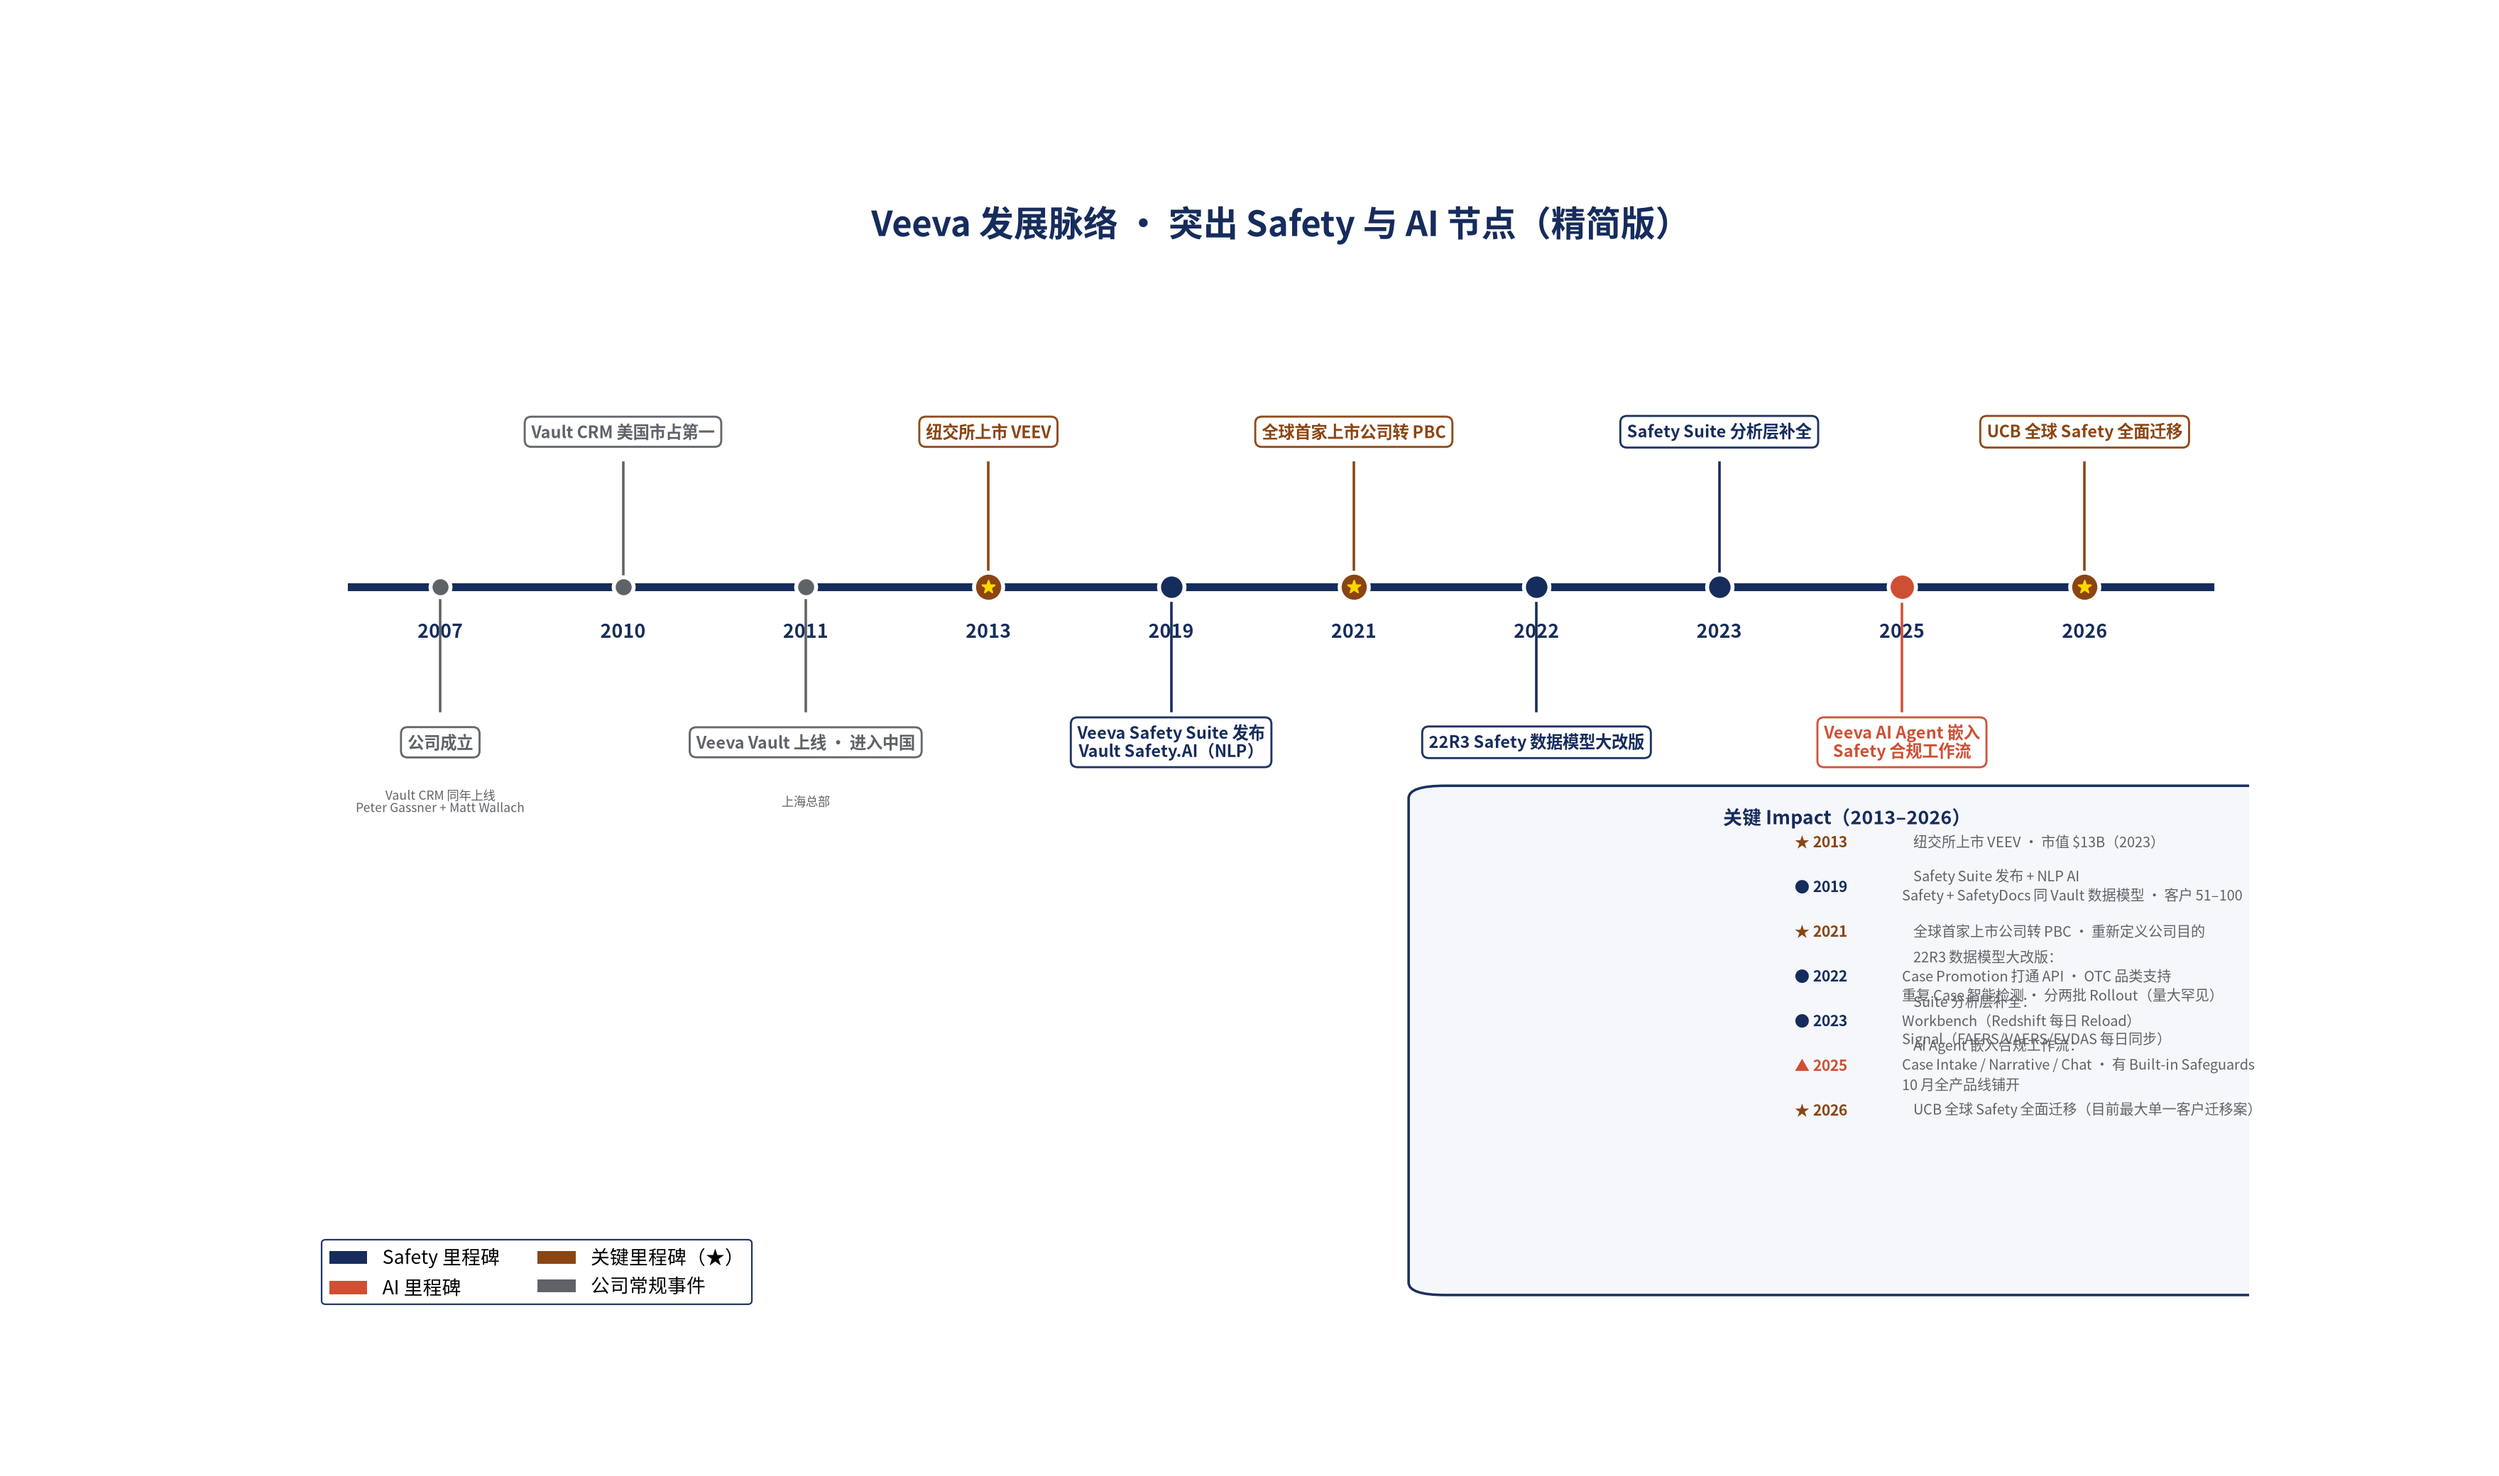
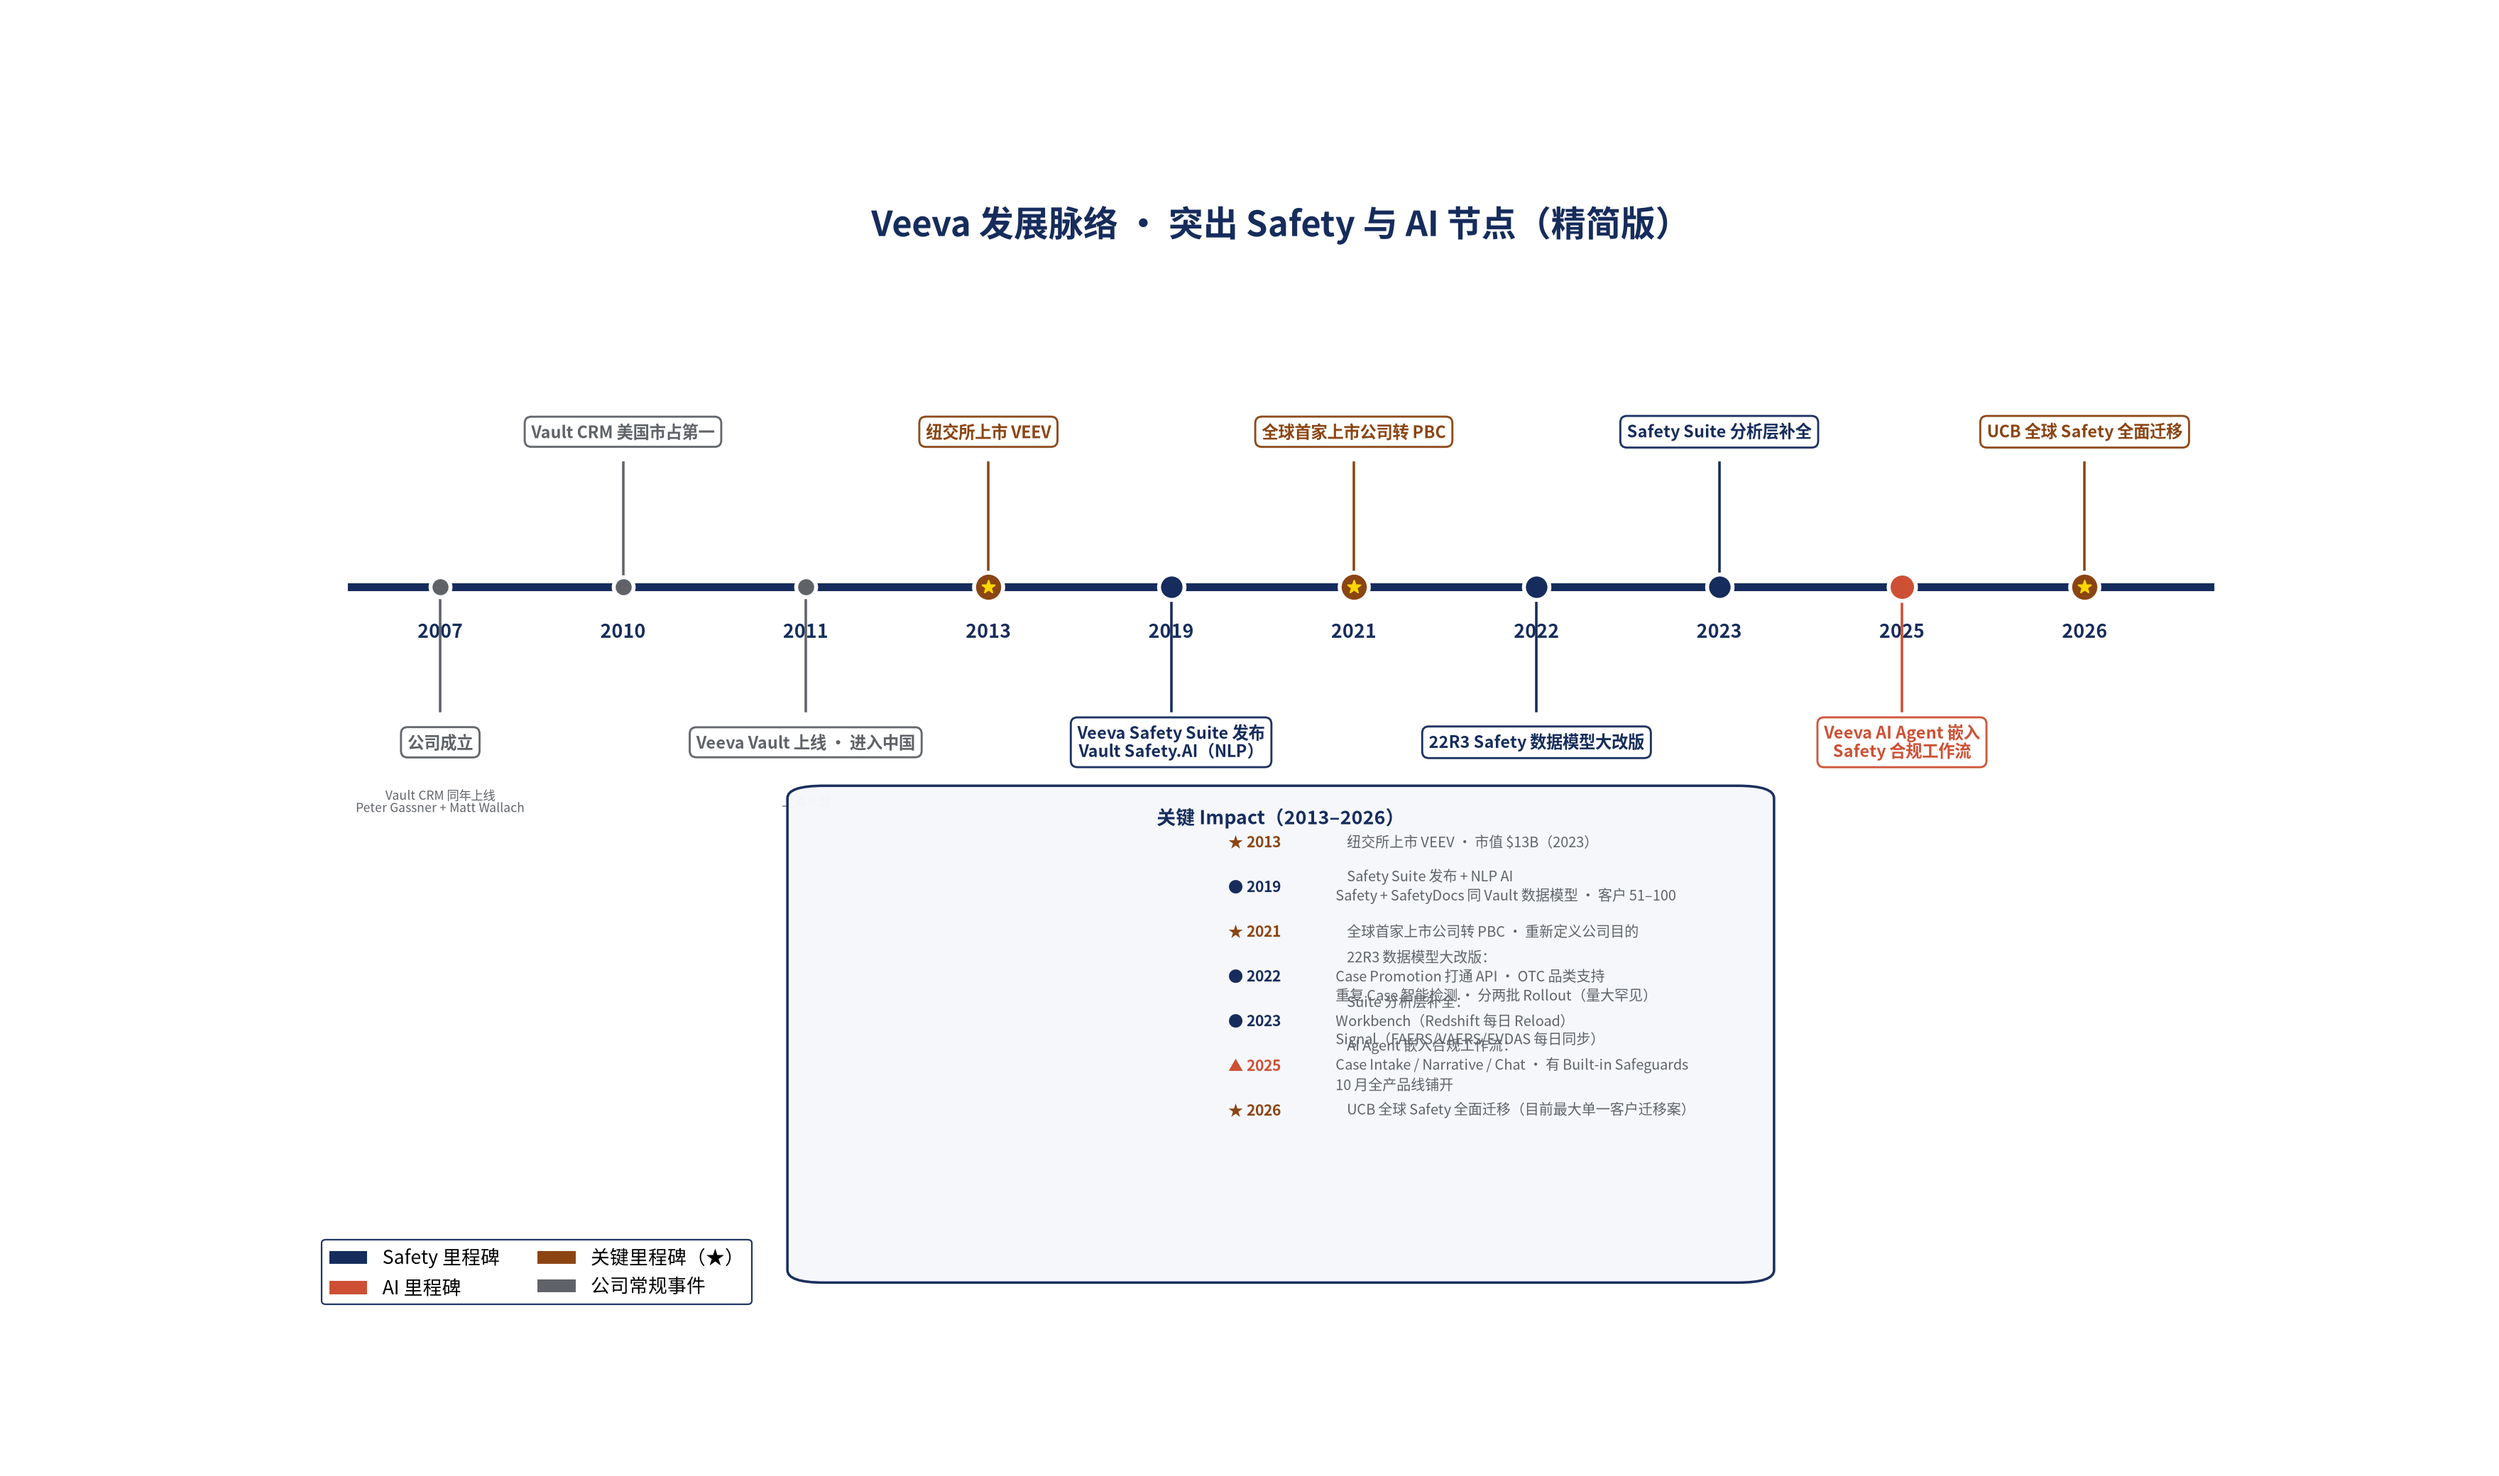
Veeva v3.5：Impact 框底部居中，宽度 5.0，完整可见

diff --git a/veeva_timeline_v3.py b/veeva_timeline_v3.py
@@ -90,12 +90,14 @@ for idx, yr, color, title, sub in events:
                 ha='center', va='center', fontsize=7.8, color=GRAY, style='italic',
                 multialignment='center')
 
-# ---------- Impact 框：左边缘再右移 + 宽度缩小 + 高度加高 ----------
-right_box_right = n - 0.1       # 右边缘（贴紧画布）
-right_box_left = 5.5            # 左边缘从 4.5 右移到 5.5，空白大幅减少
-right_box_w = right_box_right - right_box_left   # 宽度 4.4
-right_box_y = -4.0              # 底部再下 0.8，给更高的框留空间
-right_box_h = 7.8               # 高度从 6.4 → 7.8，容纳 3 行 Impact
+# ---------- Impact 框：底部居中 ----------
+# 框宽度 5.0，居中于画布底部（画布 x: -0.7 ~ 9.9，中心 x=4.6）
+box_w = 5.0
+box_center_x = (ax.get_xlim()[0] + ax.get_xlim()[1]) / 2   # = 4.6
+right_box_left = box_center_x - box_w / 2   # 左边缘 = 2.1
+right_box_w = box_w
+right_box_y = -3.8
+right_box_h = 7.6
 
 right_box = FancyBboxPatch(
     (right_box_left, right_box_y),
